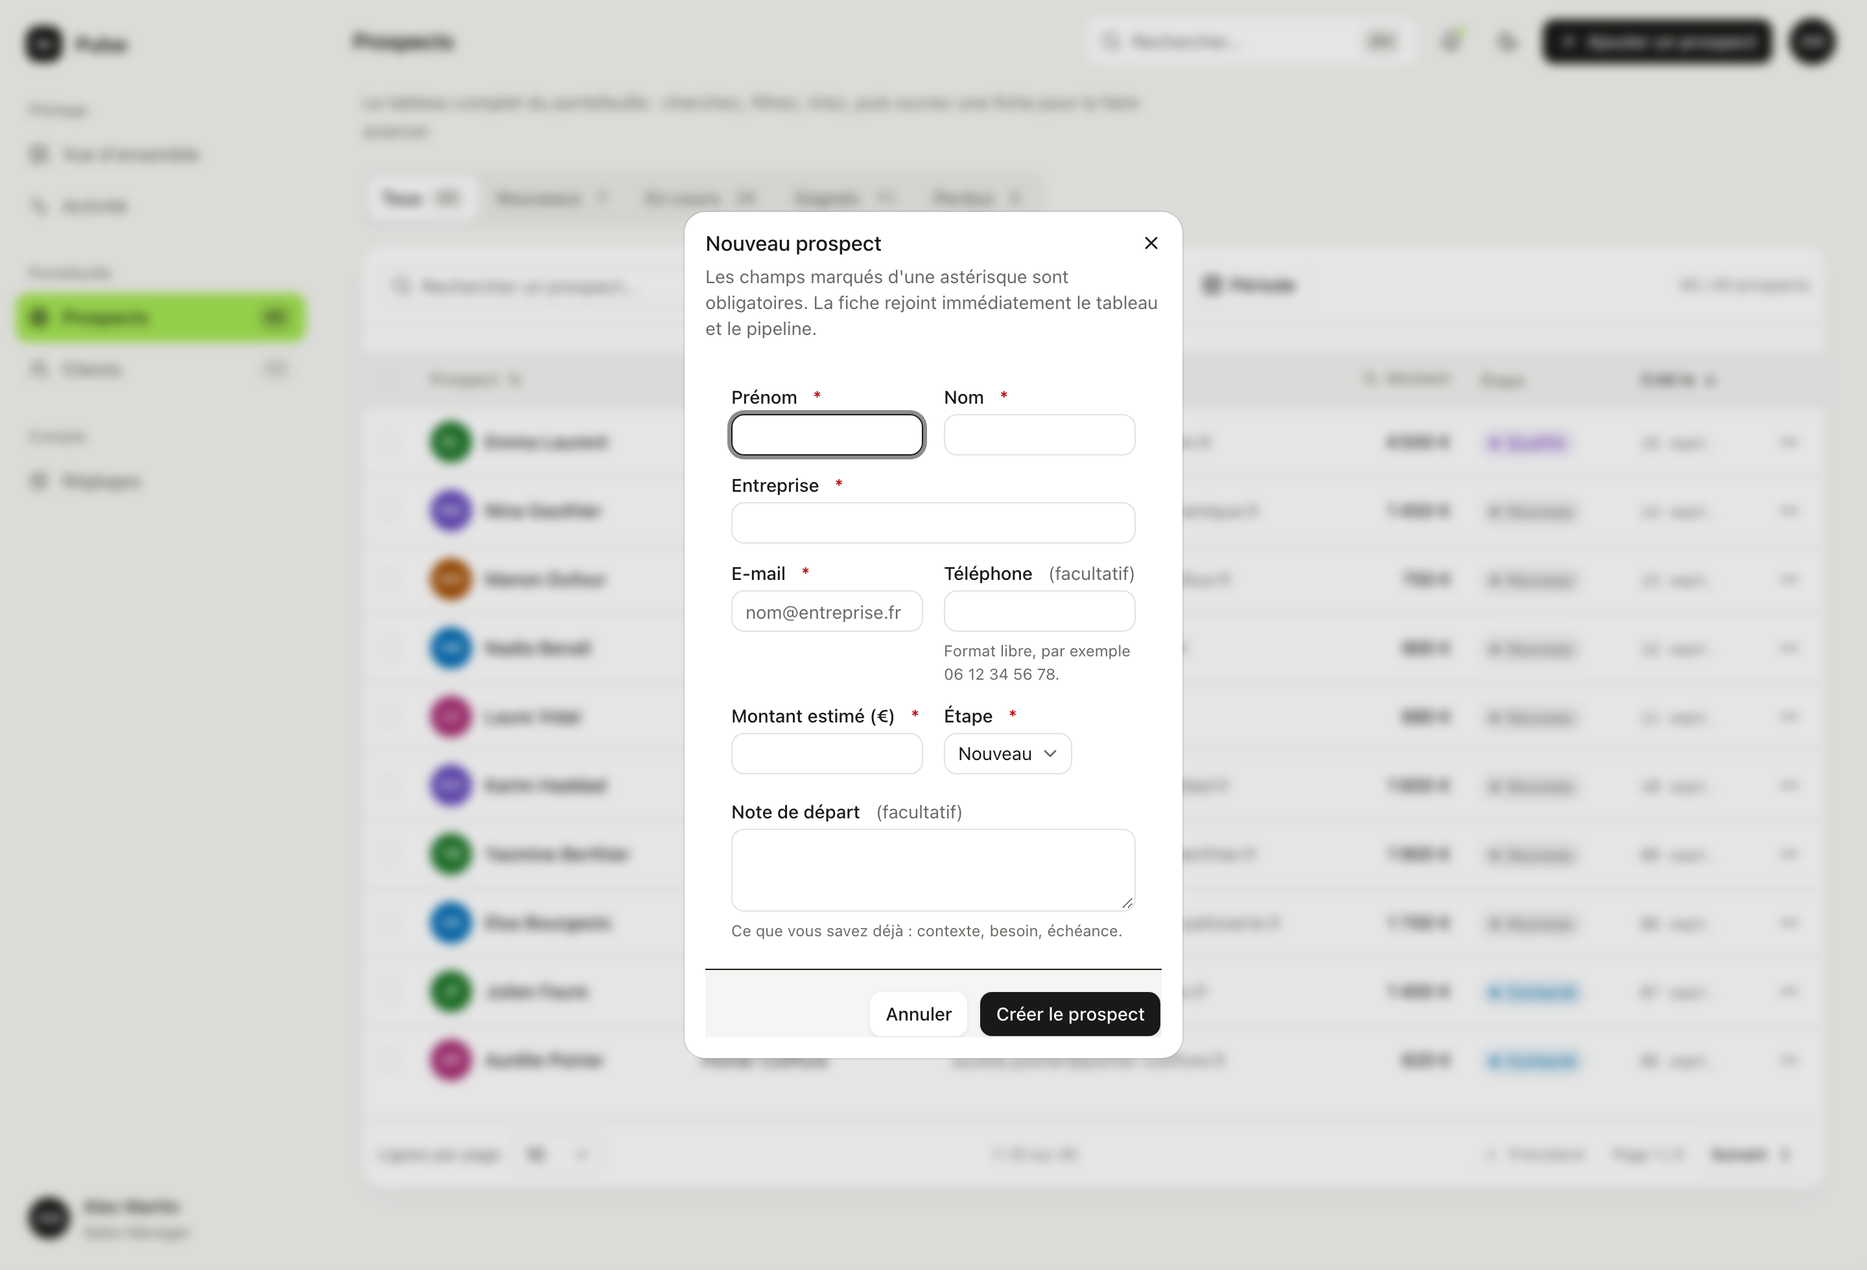
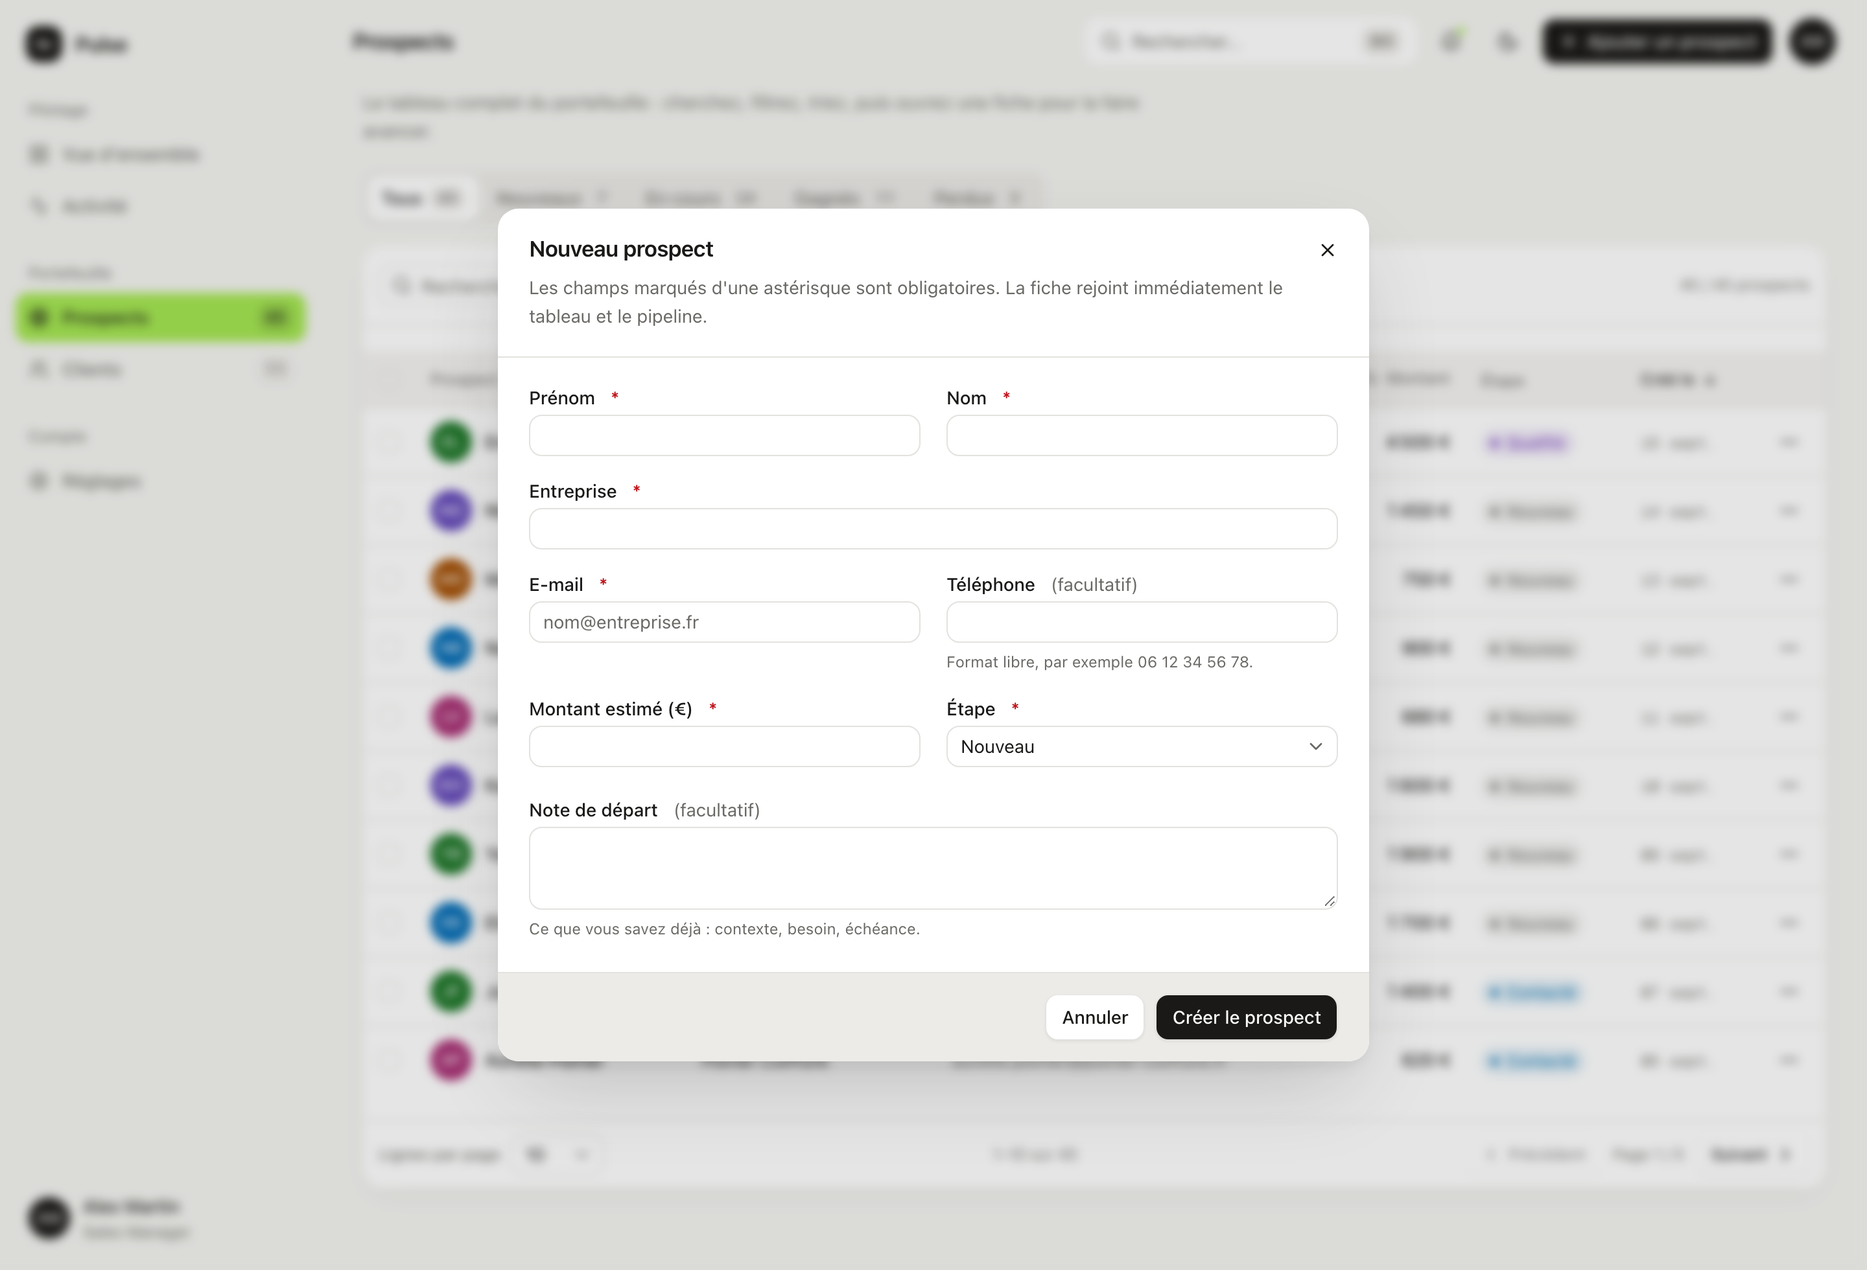
fix(ui): grille de la vue d'ensemble, modale d'ajout, focus
- les quatre cartes de la vue d'ensemble vivent dans une seule grille :
  les colonnes se remplissent d'elles-mêmes et le vide sous le graphique
  disparaît, au lieu d'être déplacé comme le faisait `self-start`
- la modale reprend 672 px et des marges d'un cran au-dessus : l'écrasement
  venait du `sm:max-w-sm` de shadcn, qui avait aussi emporté le correctif de
  hauteur de viewport. Conteneur en `inset-0` et pied de page collant rétablis
- un seul traitement de focus : les anneaux propres aux composants shadcn
  se superposaient au contour global et doublaient le cerne
- le select remplit sa colonne comme les autres champs
- l'animation d'entrée du graphique est supprimée : décorative sur un écran
  de travail, et elle rendait les captures non déterministes

Changed region(s): [[0.25, 0.1556, 0.75, 0.8714], [0.4062, 0.4357, 0.5, 0.498]]

diff --git a/src/app/dashboard/page.tsx b/src/app/dashboard/page.tsx
@@ -29,8 +29,12 @@ export default async function DashboardPage() {
 
       <KpiStrip leads={leads} />
 
+      {/*
+        Une seule grille porte les quatre cartes : les colonnes se remplissent
+        d'elles-mêmes et aucune ne laisse de vide sous la plus courte.
+      */}
       <div className="grid items-start gap-5 xl:grid-cols-3">
-        <Card className="self-start xl:col-span-2">
+        <Card className="xl:col-span-2">
           <CardHeader className="border-b">
             <CardTitle>Chiffre d&apos;affaires mensuel — 2026</CardTitle>
             <CardAction>
@@ -42,49 +46,47 @@ export default async function DashboardPage() {
           </CardContent>
         </Card>
 
-        <div className="space-y-5">
-          <Card className="py-0">
-            <CardHeader className="border-b pt-5">
-              <CardTitle>Pipeline par étape</CardTitle>
-              <CardAction>
-                <p className="text-label text-muted-foreground">{leads.length} fiches</p>
-              </CardAction>
-            </CardHeader>
-            <CardContent className="px-0 pb-1">
-              <PipelineOverview leads={leads} />
-            </CardContent>
-          </Card>
+        <Card className="py-0">
+          <CardHeader className="border-b pt-5">
+            <CardTitle>Pipeline par étape</CardTitle>
+            <CardAction>
+              <p className="text-label text-muted-foreground">{leads.length} fiches</p>
+            </CardAction>
+          </CardHeader>
+          <CardContent className="px-0 pb-1">
+            <PipelineOverview leads={leads} />
+          </CardContent>
+        </Card>
 
-          <Card className="py-0">
-            <CardHeader className="border-b pt-5">
-              <div className="flex items-center gap-2.5">
-                <IconTile icon={ListChecks} size="sm" />
-                <CardTitle>À faire en premier</CardTitle>
-              </div>
-            </CardHeader>
-            <CardContent className="px-0 pb-4">
-              <PriorityList actions={actions} />
-            </CardContent>
-          </Card>
-        </div>
+        <Card className="py-0 xl:col-span-2">
+          <CardHeader className="border-b pt-5">
+            <CardTitle>Prospects récents</CardTitle>
+            <CardAction>
+              <Button asChild variant="ghost" size="sm">
+                <Link href="/leads">
+                  Tout voir
+                  <ArrowRight aria-hidden />
+                </Link>
+              </Button>
+            </CardAction>
+          </CardHeader>
+          <CardContent className="px-0 pb-2">
+            <RecentLeads leads={leads} />
+          </CardContent>
+        </Card>
+
+        <Card className="py-0">
+          <CardHeader className="border-b pt-5">
+            <div className="flex items-center gap-2.5">
+              <IconTile icon={ListChecks} size="sm" />
+              <CardTitle>À faire en premier</CardTitle>
+            </div>
+          </CardHeader>
+          <CardContent className="px-0 pb-4">
+            <PriorityList actions={actions} />
+          </CardContent>
+        </Card>
       </div>
-
-      <Card className="py-0">
-        <CardHeader className="border-b pt-5">
-          <CardTitle>Prospects récents</CardTitle>
-          <CardAction>
-            <Button asChild variant="ghost" size="sm">
-              <Link href="/leads">
-                Tout voir
-                <ArrowRight aria-hidden />
-              </Link>
-            </Button>
-          </CardAction>
-        </CardHeader>
-        <CardContent className="px-0 pb-2">
-          <RecentLeads leads={leads} />
-        </CardContent>
-      </Card>
 
       {insight ? <InsightBand headline={insight.headline} reading={insight.reading} /> : null}
     </div>

diff --git a/src/components/ui/dialog.tsx b/src/components/ui/dialog.tsx
@@ -58,29 +58,35 @@ function DialogContent({
   return (
     <DialogPortal>
       <DialogOverlay />
-      <DialogPrimitive.Content
-        data-slot="dialog-content"
-        className={cn(
-          "fixed top-1/2 left-1/2 z-50 grid w-full max-w-[calc(100%-2rem)] -translate-x-1/2 -translate-y-1/2 gap-4 rounded-xl bg-popover p-4 text-sm text-popover-foreground ring-1 ring-foreground/10 duration-100 outline-none sm:max-w-sm data-open:animate-in data-open:fade-in-0 data-open:zoom-in-95 data-closed:animate-out data-closed:fade-out-0 data-closed:zoom-out-95",
-          className
-        )}
-        {...props}
-      >
-        {children}
-        {showCloseButton && (
-          <DialogPrimitive.Close data-slot="dialog-close" asChild>
-            <Button
-              variant="ghost"
-              className="absolute top-2 right-2"
-              size="icon-sm"
-            >
-              <XIcon
-              />
-              <span className="sr-only">Close</span>
-            </Button>
-          </DialogPrimitive.Close>
-        )}
-      </DialogPrimitive.Content>
+      <div className="pointer-events-none fixed inset-0 z-50 flex items-center justify-center p-4">
+        <DialogPrimitive.Content
+          data-slot="dialog-content"
+          className={cn(
+            "pointer-events-auto relative flex max-h-full w-full flex-col overflow-y-auto",
+            "rounded-xl bg-popover text-body text-popover-foreground shadow-overlay outline-none",
+            "duration-100 sm:max-w-2xl dark:ring-1 dark:ring-border",
+            "data-open:animate-in data-open:fade-in-0 data-open:zoom-in-97",
+            "data-closed:animate-out data-closed:fade-out-0",
+            className
+          )}
+          {...props}
+        >
+          {children}
+          {showCloseButton && (
+            <DialogPrimitive.Close data-slot="dialog-close" asChild>
+              <Button
+                variant="ghost"
+                className="absolute top-4 right-4 z-20"
+                size="icon-sm"
+                aria-label="Fermer"
+              >
+                <XIcon />
+                <span className="sr-only">Fermer</span>
+              </Button>
+            </DialogPrimitive.Close>
+          )}
+        </DialogPrimitive.Content>
+      </div>
     </DialogPortal>
   )
 }
@@ -89,7 +95,7 @@ function DialogHeader({ className, ...props }: React.ComponentProps<"div">) {
   return (
     <div
       data-slot="dialog-header"
-      className={cn("flex flex-col gap-2", className)}
+      className={cn("shrink-0 border-b border-border px-6 py-5 pr-16", className)}
       {...props}
     />
   )
@@ -107,7 +113,7 @@ function DialogFooter({
     <div
       data-slot="dialog-footer"
       className={cn(
-        "-mx-4 -mb-4 flex flex-col-reverse gap-2 rounded-b-xl border-t bg-muted/50 p-4 sm:flex-row sm:justify-end",
+        "sticky bottom-0 z-10 mt-auto flex shrink-0 flex-col-reverse gap-2 rounded-b-xl border-t border-border bg-sunk px-6 py-4 sm:flex-row sm:justify-end",
         className
       )}
       {...props}
@@ -130,7 +136,7 @@ function DialogTitle({
     <DialogPrimitive.Title
       data-slot="dialog-title"
       className={cn(
-        "font-heading text-base leading-none font-medium",
+        "text-panel leading-snug font-semibold tracking-[-0.014em]",
         className
       )}
       {...props}
@@ -146,7 +152,7 @@ function DialogDescription({
     <DialogPrimitive.Description
       data-slot="dialog-description"
       className={cn(
-        "text-sm text-muted-foreground *:[a]:underline *:[a]:underline-offset-3 *:[a]:hover:text-foreground",
+        "mt-1.5 text-body text-muted-foreground *:[a]:underline *:[a]:underline-offset-3 *:[a]:hover:text-foreground",
         className
       )}
       {...props}

diff --git a/src/components/ui/select.tsx b/src/components/ui/select.tsx
@@ -43,7 +43,7 @@ function SelectTrigger({
       data-slot="select-trigger"
       data-size={size}
       className={cn(
-        "flex w-fit items-center justify-between gap-1.5 rounded-lg border border-input bg-transparent py-2 pr-2 pl-2.5 text-sm whitespace-nowrap transition-colors outline-none select-none focus-visible:border-ring focus-visible:ring-3 focus-visible:ring-ring/50 disabled:cursor-not-allowed disabled:opacity-50 aria-invalid:border-destructive aria-invalid:ring-3 aria-invalid:ring-destructive/20 data-placeholder:text-muted-foreground data-[size=default]:h-8 data-[size=sm]:h-7 data-[size=sm]:rounded-[min(var(--radius-md),10px)] *:data-[slot=select-value]:line-clamp-1 *:data-[slot=select-value]:flex *:data-[slot=select-value]:items-center *:data-[slot=select-value]:gap-1.5 dark:bg-input/30 dark:hover:bg-input/50 dark:aria-invalid:border-destructive/50 dark:aria-invalid:ring-destructive/40 [&_svg]:pointer-events-none [&_svg]:shrink-0 [&_svg:not([class*='size-'])]:size-4",
+        "flex w-full items-center justify-between gap-1.5 rounded-lg border border-input bg-transparent py-2 pr-2 pl-2.5 text-sm whitespace-nowrap transition-colors outline-none select-none disabled:cursor-not-allowed disabled:opacity-50 aria-invalid:border-destructive aria-invalid:ring-3 aria-invalid:ring-destructive/20 data-placeholder:text-muted-foreground data-[size=default]:h-8 data-[size=sm]:h-7 data-[size=sm]:rounded-[min(var(--radius-md),10px)] *:data-[slot=select-value]:line-clamp-1 *:data-[slot=select-value]:flex *:data-[slot=select-value]:items-center *:data-[slot=select-value]:gap-1.5 dark:bg-input/30 dark:hover:bg-input/50 dark:aria-invalid:border-destructive/50 dark:aria-invalid:ring-destructive/40 [&_svg]:pointer-events-none [&_svg]:shrink-0 [&_svg:not([class*='size-'])]:size-4",
         className
       )}
       {...props}

diff --git a/src/components/ui/checkbox.tsx b/src/components/ui/checkbox.tsx
@@ -13,7 +13,7 @@ function Checkbox({
     <CheckboxPrimitive.Root
       data-slot="checkbox"
       className={cn(
-        "peer relative flex size-4 shrink-0 items-center justify-center rounded-[4px] border border-input transition-colors outline-none group-has-disabled/field:opacity-50 group-has-[:focus-visible]/field-label:ring-0 group-has-[:focus-visible]/field-label:not-data-checked:border-input after:absolute after:-inset-x-3 after:-inset-y-2 focus-visible:border-ring focus-visible:ring-3 focus-visible:ring-ring/50 disabled:cursor-not-allowed disabled:opacity-50 aria-invalid:border-destructive aria-invalid:ring-3 aria-invalid:ring-destructive/20 aria-invalid:aria-checked:border-primary dark:bg-input/30 dark:aria-invalid:border-destructive/50 dark:aria-invalid:ring-destructive/40 data-checked:border-primary data-checked:bg-primary data-checked:text-primary-foreground group-has-[:focus-visible]/field-label:data-checked:border-primary dark:data-checked:bg-primary",
+        "peer relative flex size-4 shrink-0 items-center justify-center rounded-[4px] border border-input transition-colors outline-none group-has-disabled/field:opacity-50 group-has-[:focus-visible]/field-label:ring-0 group-has-[:focus-visible]/field-label:not-data-checked:border-input after:absolute after:-inset-x-3 after:-inset-y-2 disabled:cursor-not-allowed disabled:opacity-50 aria-invalid:border-destructive aria-invalid:ring-3 aria-invalid:ring-destructive/20 aria-invalid:aria-checked:border-primary dark:bg-input/30 dark:aria-invalid:border-destructive/50 dark:aria-invalid:ring-destructive/40 data-checked:border-primary data-checked:bg-primary data-checked:text-primary-foreground group-has-[:focus-visible]/field-label:data-checked:border-primary dark:data-checked:bg-primary",
         className
       )}
       {...props}

diff --git a/src/components/ui/switch.tsx b/src/components/ui/switch.tsx
@@ -16,7 +16,7 @@ function Switch({
       data-slot="switch"
       data-size={size}
       className={cn(
-        "peer group/switch relative inline-flex shrink-0 items-center rounded-full border border-transparent transition-all outline-none group-has-[:focus-visible]/field-label:border-transparent group-has-[:focus-visible]/field-label:ring-0 after:absolute after:-inset-x-3 after:-inset-y-2 focus-visible:border-ring focus-visible:ring-3 focus-visible:ring-ring/50 aria-invalid:border-destructive aria-invalid:ring-3 aria-invalid:ring-destructive/20 data-[size=default]:h-[18.4px] data-[size=default]:w-[32px] data-[size=sm]:h-[14px] data-[size=sm]:w-[24px] dark:aria-invalid:border-destructive/50 dark:aria-invalid:ring-destructive/40 data-checked:bg-primary data-unchecked:bg-input dark:data-unchecked:bg-input/80 data-disabled:cursor-not-allowed data-disabled:opacity-50",
+        "peer group/switch relative inline-flex shrink-0 items-center rounded-full border border-transparent transition-all outline-none group-has-[:focus-visible]/field-label:border-transparent group-has-[:focus-visible]/field-label:ring-0 after:absolute after:-inset-x-3 after:-inset-y-2 aria-invalid:border-destructive aria-invalid:ring-3 aria-invalid:ring-destructive/20 data-[size=default]:h-[18.4px] data-[size=default]:w-[32px] data-[size=sm]:h-[14px] data-[size=sm]:w-[24px] dark:aria-invalid:border-destructive/50 dark:aria-invalid:ring-destructive/40 data-checked:bg-primary data-unchecked:bg-input dark:data-unchecked:bg-input/80 data-disabled:cursor-not-allowed data-disabled:opacity-50",
         className
       )}
       {...props}

diff --git a/src/components/ui/input.tsx b/src/components/ui/input.tsx
@@ -7,7 +7,7 @@ function Input({ className, type, ...props }: React.ComponentProps<"input">) {
       type={type}
       data-slot="input"
       className={cn(
-        "h-8 w-full min-w-0 rounded-lg border border-input bg-transparent px-2.5 py-1 text-base transition-colors outline-none file:inline-flex file:h-6 file:border-0 file:bg-transparent file:text-sm file:font-medium file:text-foreground placeholder:text-muted-foreground focus-visible:border-ring focus-visible:ring-3 focus-visible:ring-ring/50 disabled:pointer-events-none disabled:cursor-not-allowed disabled:bg-input/50 disabled:opacity-50 aria-invalid:border-destructive aria-invalid:ring-3 aria-invalid:ring-destructive/20 md:text-sm dark:bg-input/30 dark:disabled:bg-input/80 dark:aria-invalid:border-destructive/50 dark:aria-invalid:ring-destructive/40",
+        "h-8 w-full min-w-0 rounded-lg border border-input bg-transparent px-2.5 py-1 text-base transition-colors outline-none file:inline-flex file:h-6 file:border-0 file:bg-transparent file:text-sm file:font-medium file:text-foreground placeholder:text-muted-foreground disabled:pointer-events-none disabled:cursor-not-allowed disabled:bg-input/50 disabled:opacity-50 aria-invalid:border-destructive aria-invalid:ring-3 aria-invalid:ring-destructive/20 md:text-sm dark:bg-input/30 dark:disabled:bg-input/80 dark:aria-invalid:border-destructive/50 dark:aria-invalid:ring-destructive/40",
         className
       )}
       {...props}

diff --git a/src/components/ui/button.tsx b/src/components/ui/button.tsx
@@ -4,7 +4,7 @@ import { cn } from "@/lib/utils"
 import { Slot } from "radix-ui"
 
 const buttonVariants = cva(
-  "group/button inline-flex shrink-0 items-center justify-center rounded-lg border border-transparent bg-clip-padding text-sm font-medium whitespace-nowrap transition-all outline-none select-none focus-visible:border-ring focus-visible:ring-3 focus-visible:ring-ring/50 active:not-aria-[haspopup]:translate-y-px disabled:pointer-events-none disabled:opacity-50 aria-invalid:border-destructive aria-invalid:ring-3 aria-invalid:ring-destructive/20 dark:aria-invalid:border-destructive/50 dark:aria-invalid:ring-destructive/40 [&_svg]:pointer-events-none [&_svg]:shrink-0 [&_svg:not([class*='size-'])]:size-4",
+  "group/button inline-flex shrink-0 items-center justify-center rounded-lg border border-transparent bg-clip-padding text-sm font-medium whitespace-nowrap transition-all outline-none select-none active:not-aria-[haspopup]:translate-y-px disabled:pointer-events-none disabled:opacity-50 aria-invalid:border-destructive aria-invalid:ring-3 aria-invalid:ring-destructive/20 dark:aria-invalid:border-destructive/50 dark:aria-invalid:ring-destructive/40 [&_svg]:pointer-events-none [&_svg]:shrink-0 [&_svg:not([class*='size-'])]:size-4",
   {
     variants: {
       variant: {

diff --git a/src/components/ui/textarea.tsx b/src/components/ui/textarea.tsx
@@ -6,7 +6,7 @@ function Textarea({ className, ...props }: React.ComponentProps<"textarea">) {
     <textarea
       data-slot="textarea"
       className={cn(
-        "flex field-sizing-content min-h-16 w-full rounded-lg border border-input bg-transparent px-2.5 py-2 text-base transition-colors outline-none placeholder:text-muted-foreground focus-visible:border-ring focus-visible:ring-3 focus-visible:ring-ring/50 disabled:cursor-not-allowed disabled:bg-input/50 disabled:opacity-50 aria-invalid:border-destructive aria-invalid:ring-3 aria-invalid:ring-destructive/20 md:text-sm dark:bg-input/30 dark:disabled:bg-input/80 dark:aria-invalid:border-destructive/50 dark:aria-invalid:ring-destructive/40",
+        "flex field-sizing-content min-h-16 w-full rounded-lg border border-input bg-transparent px-2.5 py-2 text-base transition-colors outline-none placeholder:text-muted-foreground disabled:cursor-not-allowed disabled:bg-input/50 disabled:opacity-50 aria-invalid:border-destructive aria-invalid:ring-3 aria-invalid:ring-destructive/20 md:text-sm dark:bg-input/30 dark:disabled:bg-input/80 dark:aria-invalid:border-destructive/50 dark:aria-invalid:ring-destructive/40",
         className
       )}
       {...props}

diff --git a/src/components/leads/lead-form.tsx b/src/components/leads/lead-form.tsx
@@ -87,10 +87,10 @@ export function LeadForm({
       onSubmit={handleSubmit(onSubmit, focusFirstError)}
       className="flex min-h-0 flex-1 flex-col overflow-y-auto"
     >
-      <div className="space-y-4 px-5 py-5">
+      <div className="space-y-5 px-6 py-6">
         {banner}
 
-        <div className="grid gap-4 sm:grid-cols-2">
+        <div className="grid gap-5 sm:grid-cols-2">
           <Field id="firstName" label="Prénom" required error={errors.firstName?.message}>
             <Input
               id="firstName"
@@ -122,7 +122,7 @@ export function LeadForm({
           />
         </Field>
 
-        <div className="grid gap-4 sm:grid-cols-2">
+        <div className="grid gap-5 sm:grid-cols-2">
           <Field id="email" label="E-mail" required error={errors.email?.message}>
             <Input
               id="email"
@@ -158,7 +158,7 @@ export function LeadForm({
           </Field>
         </div>
 
-        <div className="grid gap-4 sm:grid-cols-2">
+        <div className="grid gap-5 sm:grid-cols-2">
           <Field
             id="estimatedValue"
             label="Montant estimé (€)"

diff --git a/src/components/dashboard/revenue-chart.tsx b/src/components/dashboard/revenue-chart.tsx
@@ -63,7 +63,7 @@ export function RevenueChart({ data }: { data: MonthlyRevenue[] }) {
               cursor={{ fill: "var(--brand-tint)" }}
               content={<ChartTooltip />}
             />
-            <Bar dataKey="revenue" radius={[6, 6, 0, 0]} maxBarSize={44}>
+            <Bar dataKey="revenue" radius={[6, 6, 0, 0]} maxBarSize={44} isAnimationActive={false}>
               {data.map((entry, index) => (
                 <Cell
                   key={entry.month}
